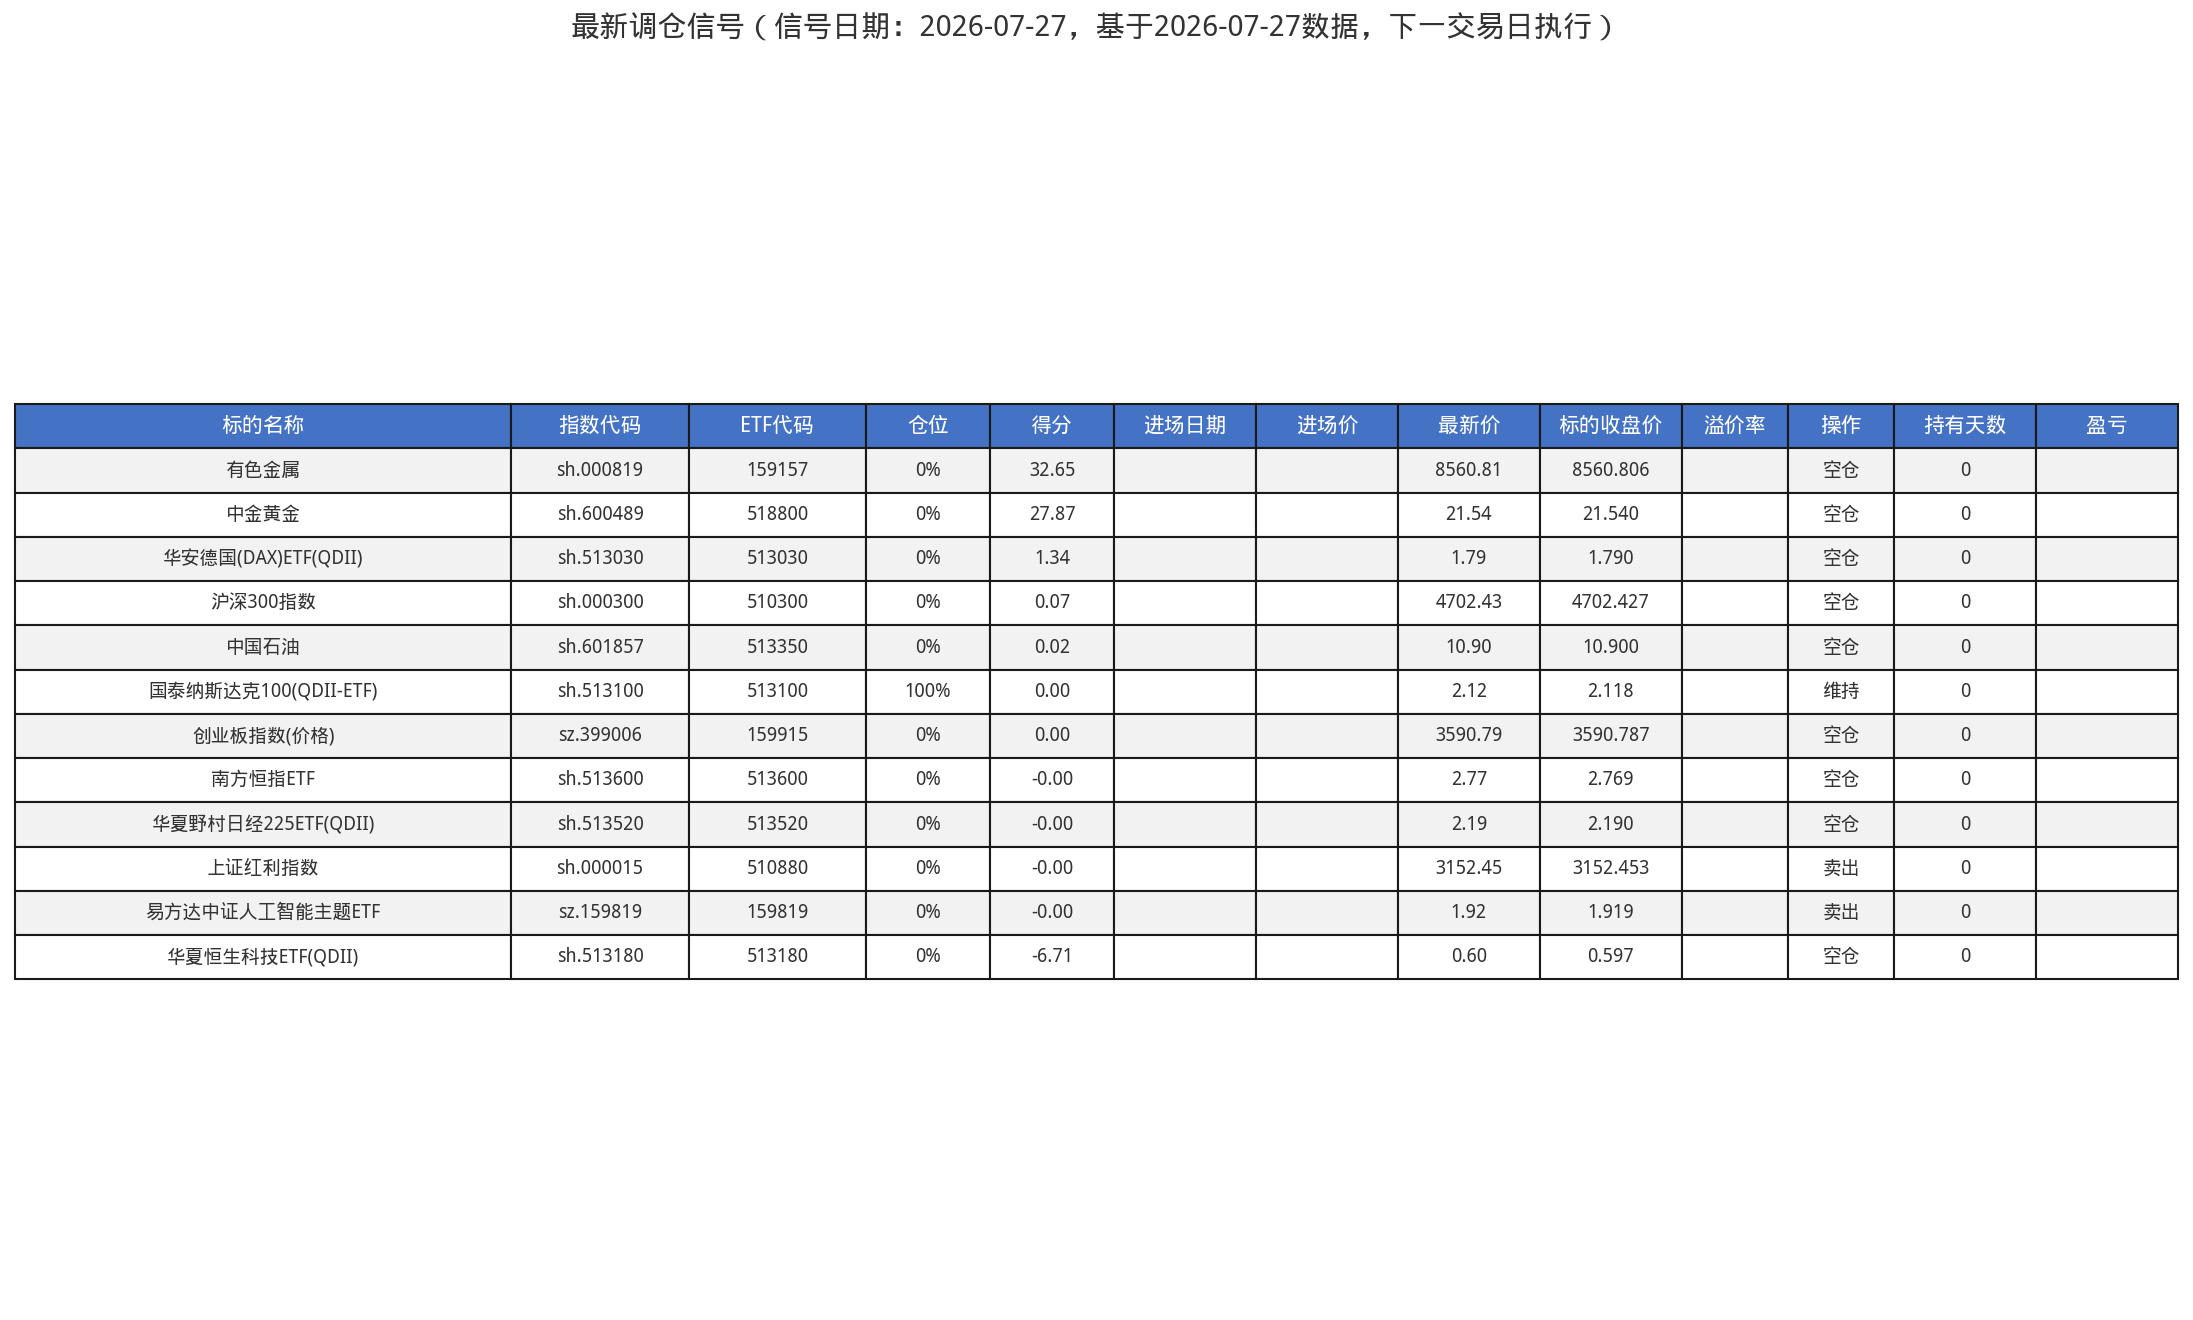
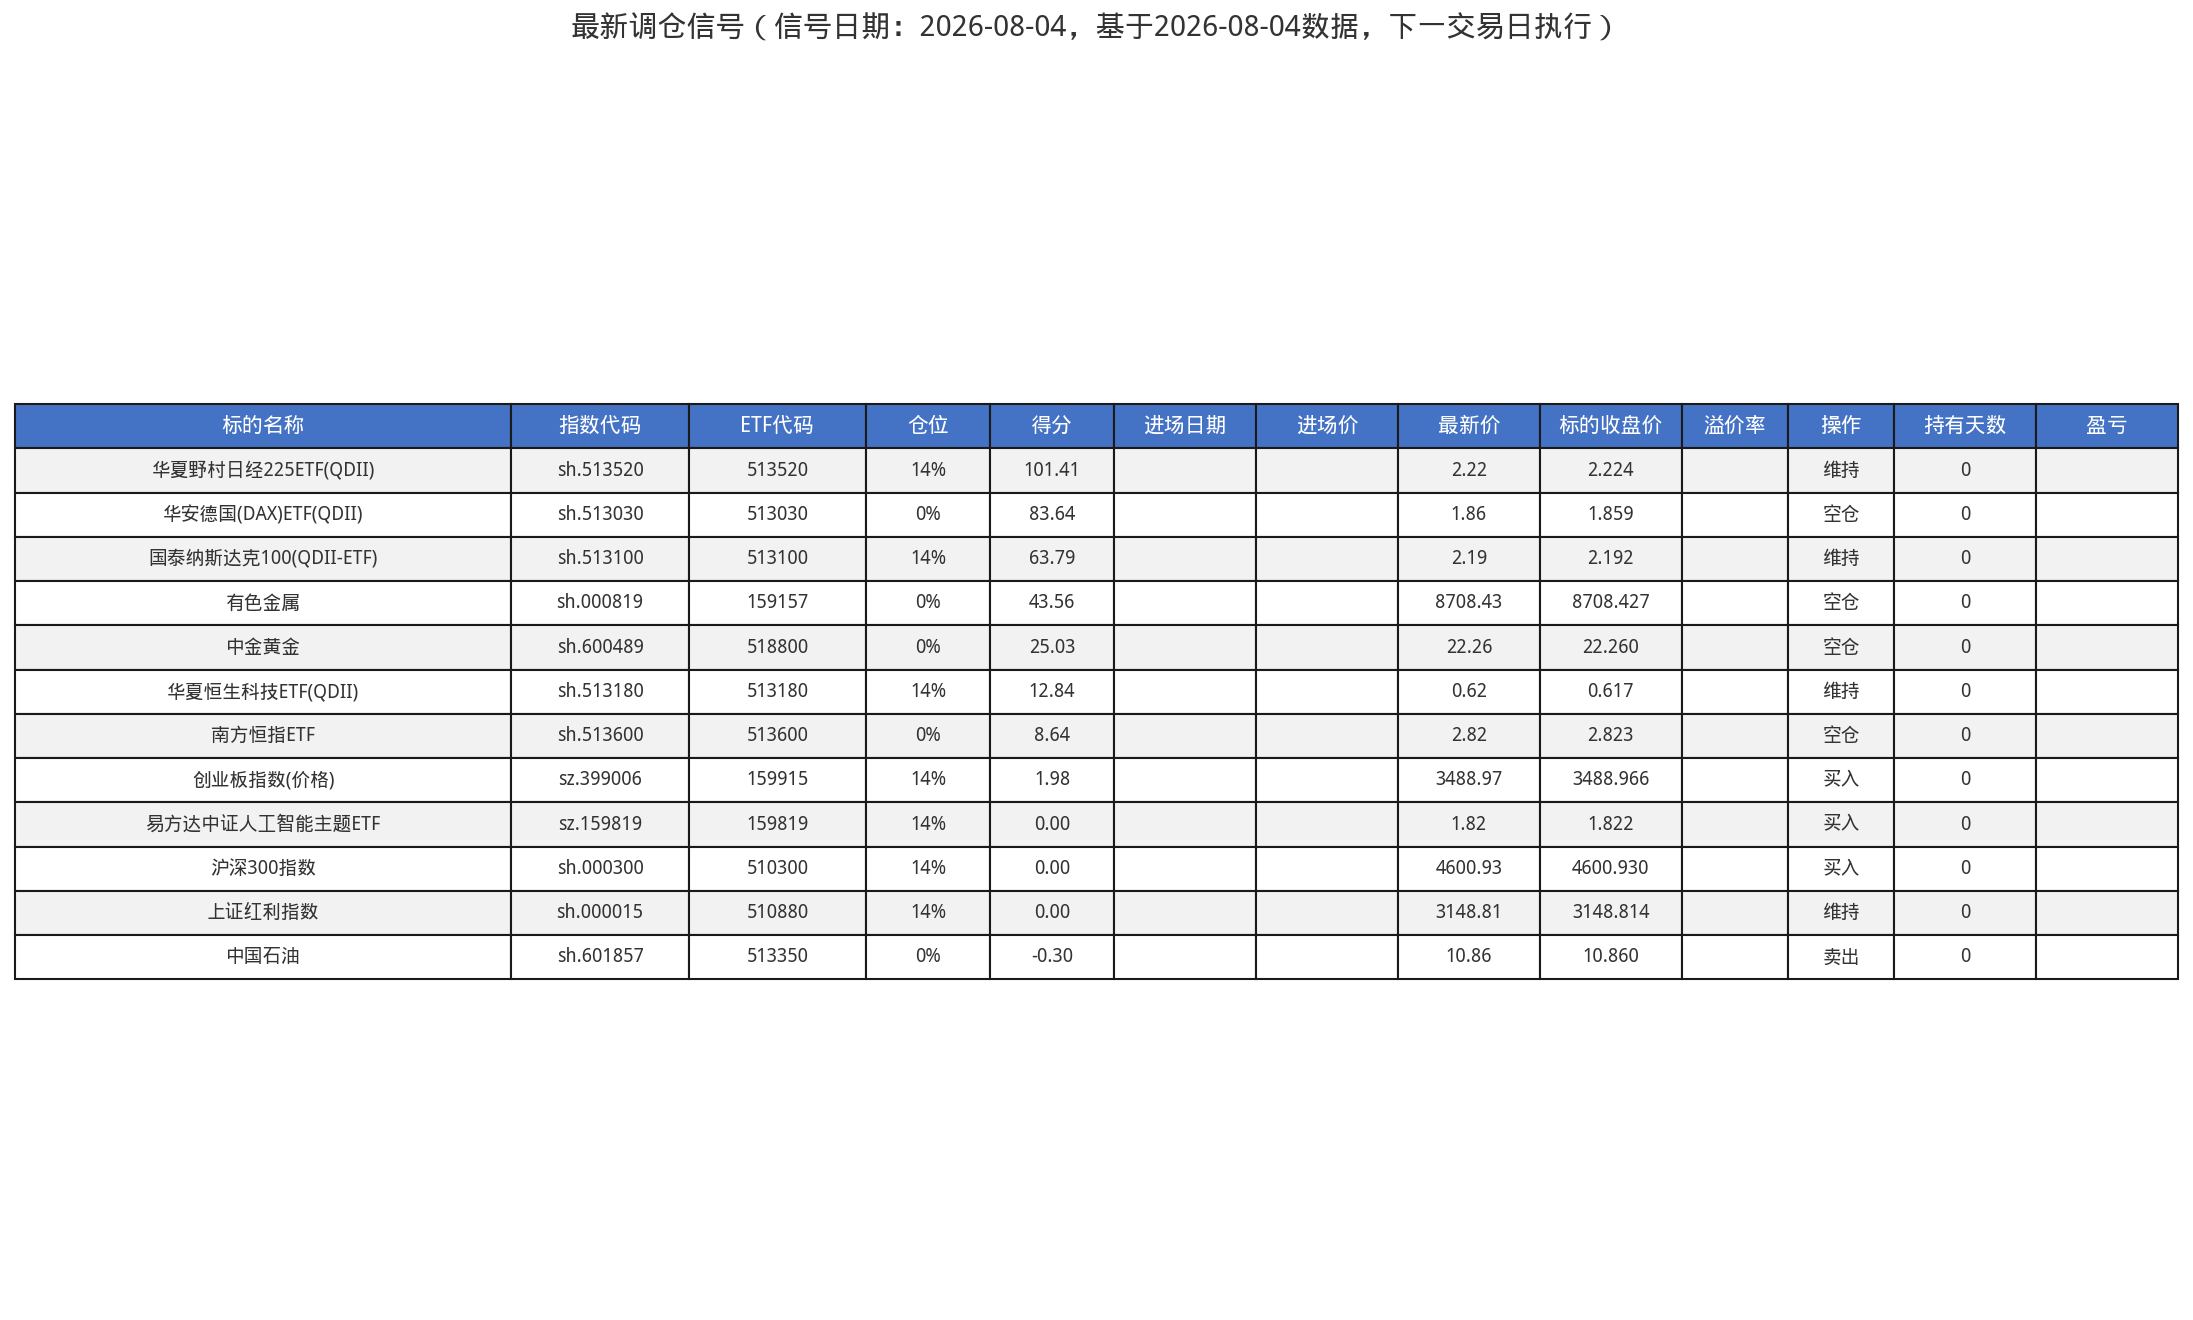
20260805AI大改前

diff --git a/luntan/settings.py b/luntan/settings.py
@@ -54,7 +54,7 @@ MEDIA_ROOT = os.path.join(BASE_DIR, 'media')  # 服務器存儲路徑
 
 
 # DeepSeek API配置
-DEEPSEEK_API_KEY = os.environ.get('DEEPSEEK_API_KEY', '')
+DEEPSEEK_API_KEY = os.environ.get('DEEPSEEK_API_KEY', 'xxx')
 
 
 
@@ -86,6 +86,21 @@ ALLOWED_HOSTS = [
     '.ngrok-free.dev',         
 
 ]
+
+
+CSRF_TRUSTED_ORIGINS = [
+    "https://2501b345.r25.cpolar.top",   # 当前有效的域名
+    "http://2501b345.r25.cpolar.top",   # 当前有效的域名
+]
+
+
+
+
+
+
+#20260729 信任crsf
+
+
 # Application definition
 
 INSTALLED_APPS = [
@@ -112,13 +127,17 @@ MIDDLEWARE = [
     'django.contrib.sessions.middleware.SessionMiddleware',
     'corsheaders.middleware.CorsMiddleware',
     'django.middleware.common.CommonMiddleware',
-    'django.middleware.csrf.CsrfViewMiddleware',
+    'django.middleware.csrf.CsrfViewMiddleware',  #20260729 屏蔽csrf驗證
     'django.contrib.auth.middleware.AuthenticationMiddleware',
     'django.contrib.messages.middleware.MessageMiddleware',
     'django.middleware.clickjacking.XFrameOptionsMiddleware',
 ]
 
 ROOT_URLCONF = 'luntan.urls'
+
+
+
+
 
 
 #模板會進入app文件夾下templates下尋找
